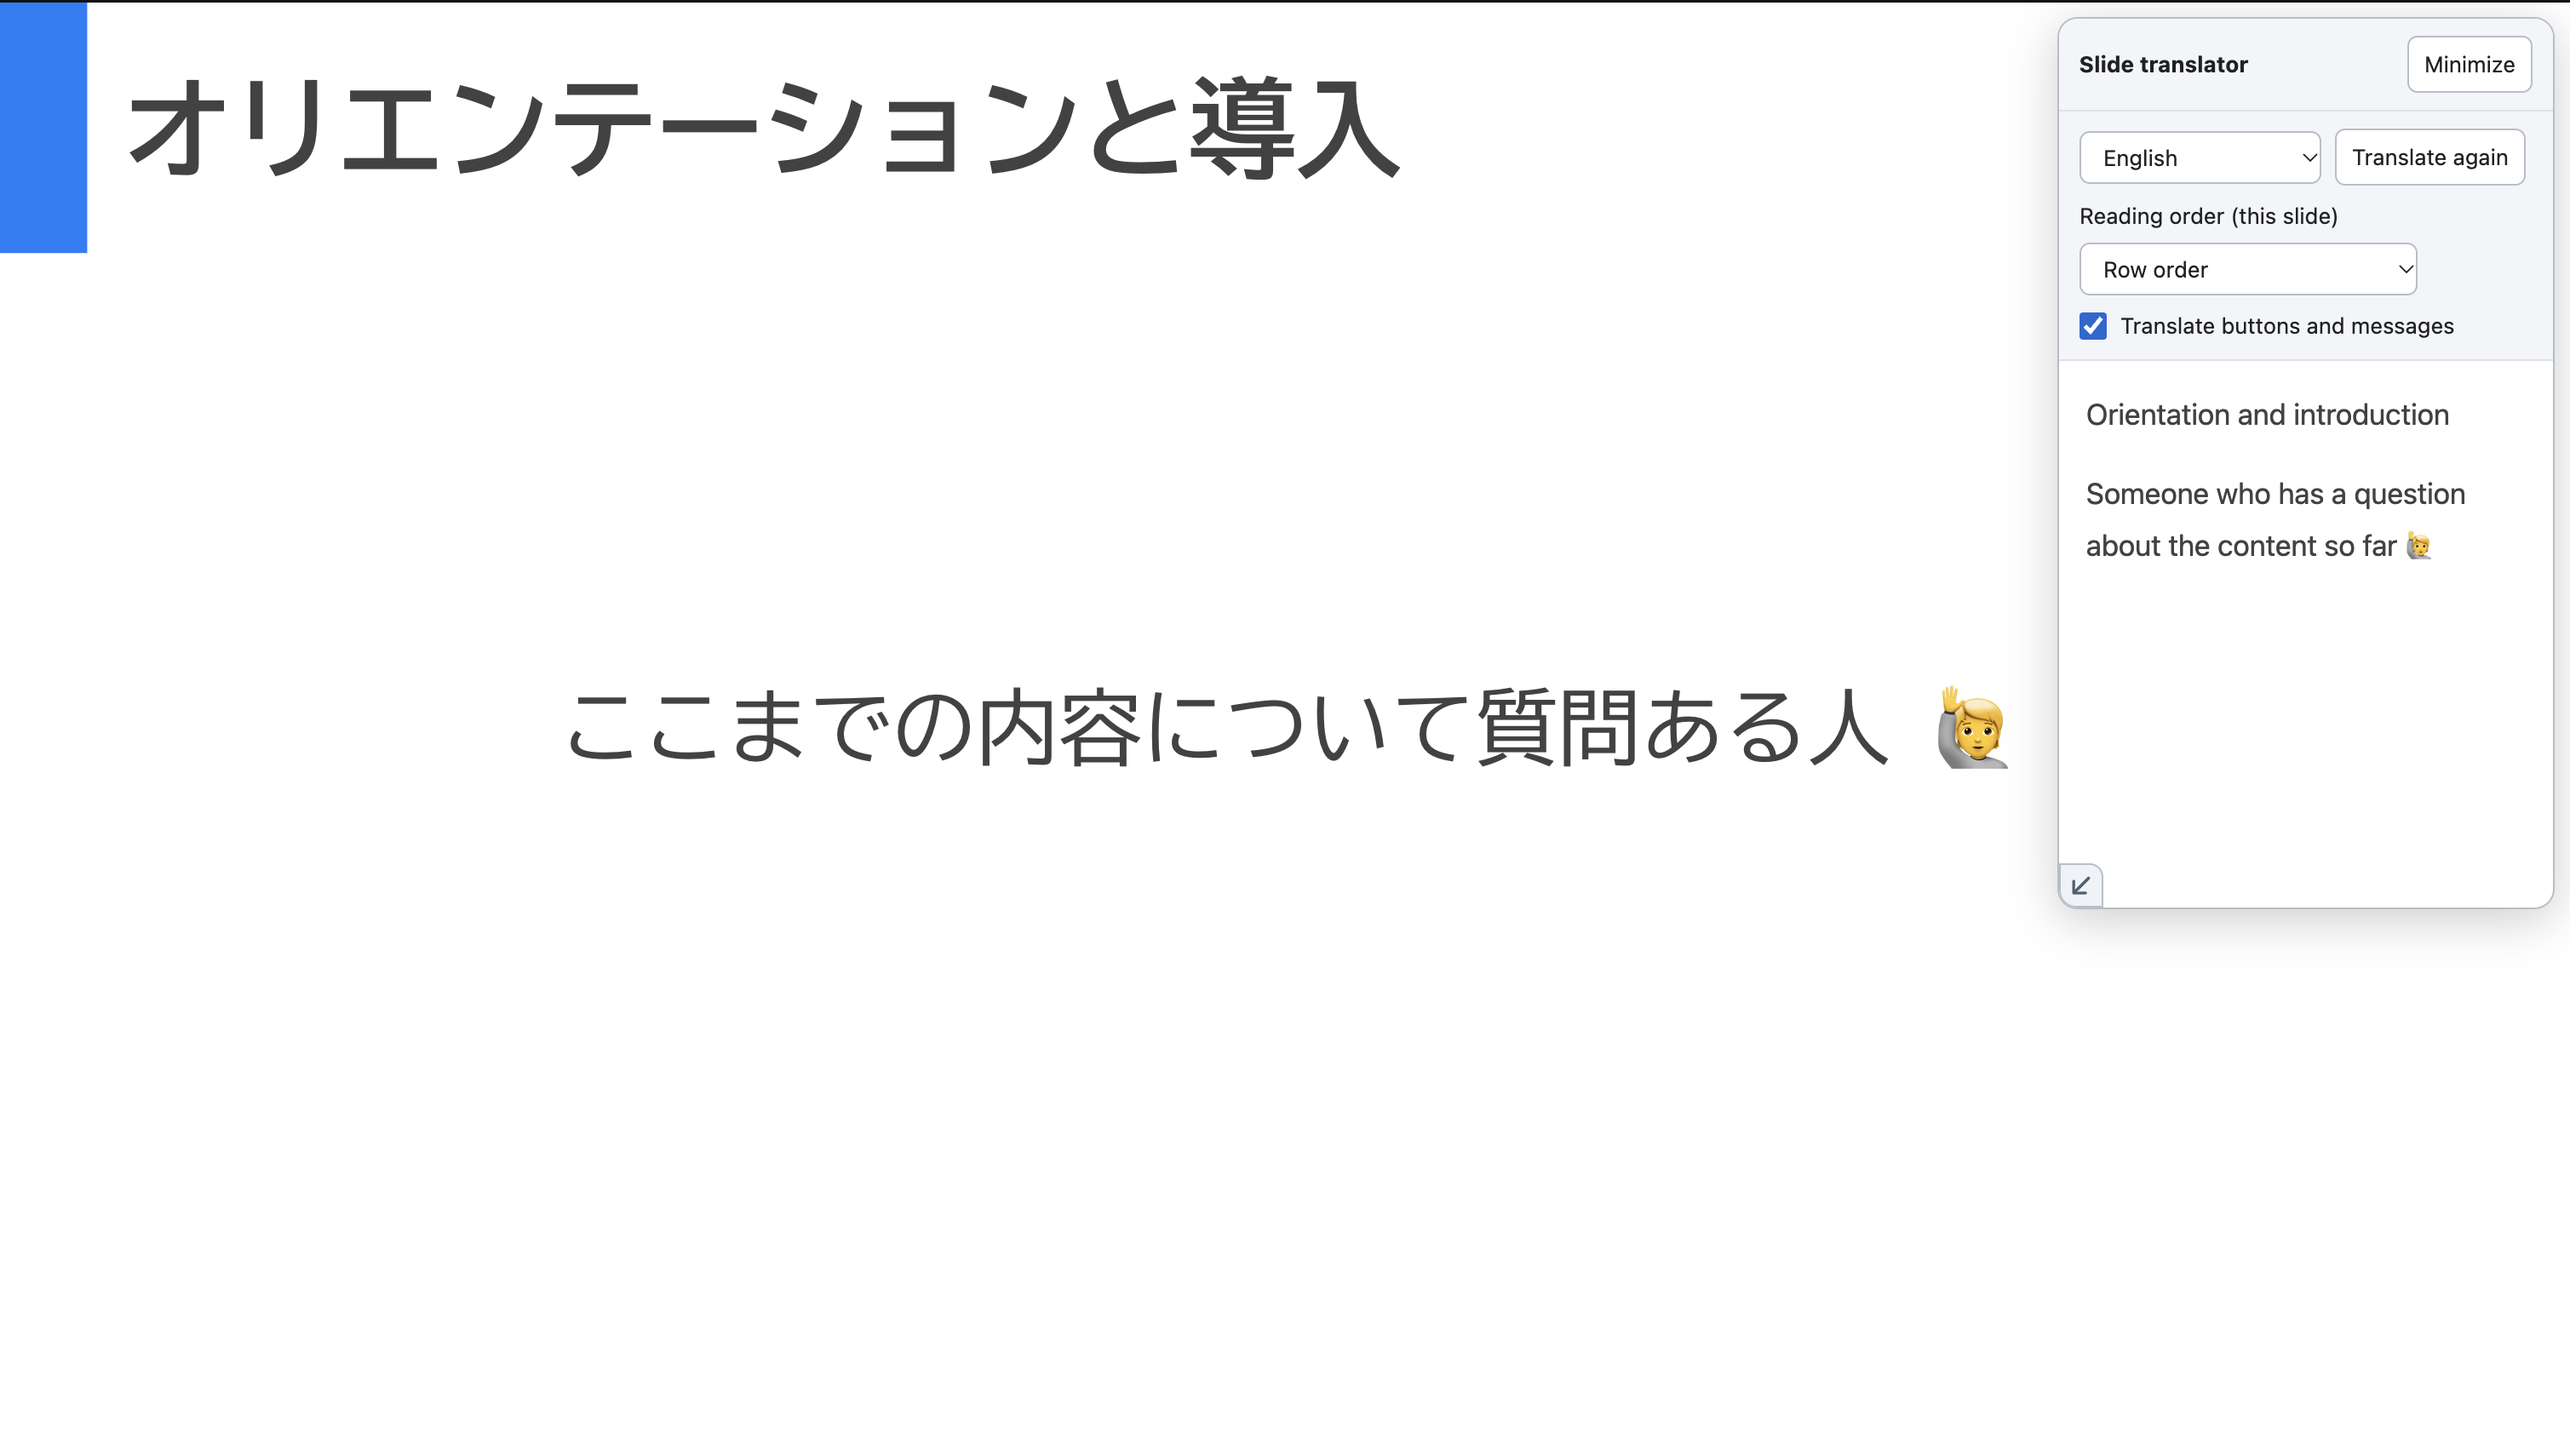
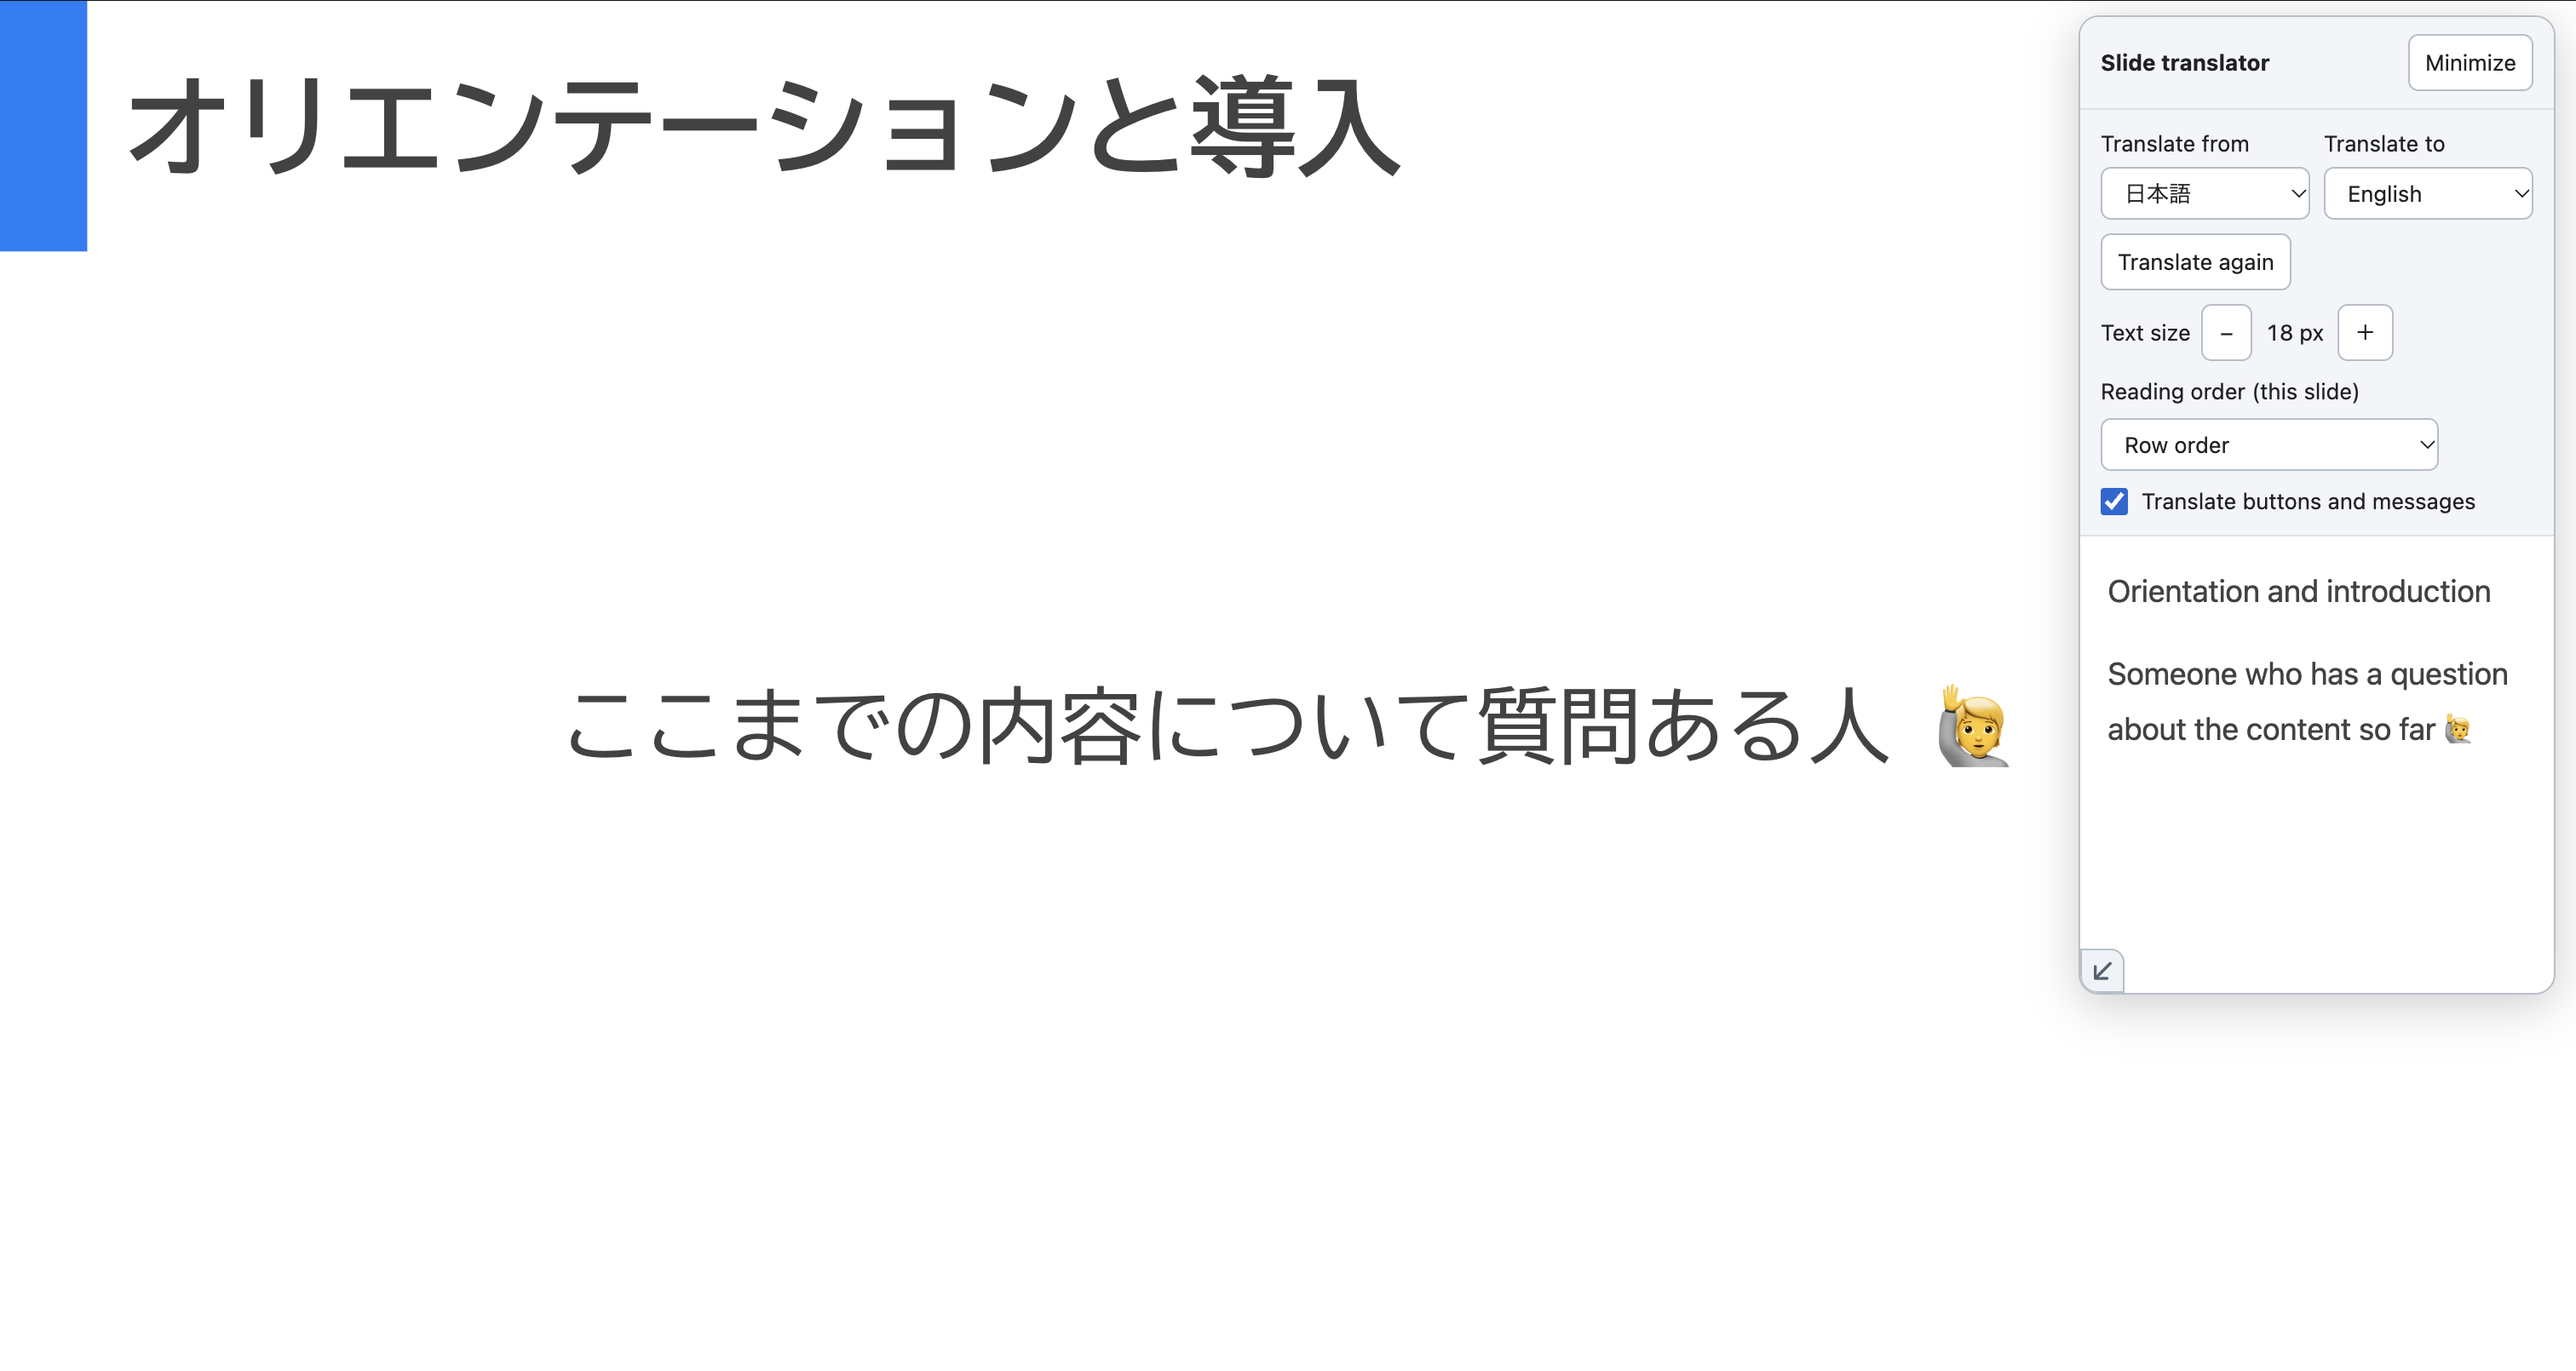
Refresh Canva example and clarify teacher-led use and optional student setup

diff --git a/index.html b/index.html
@@ -4411,8 +4411,8 @@ SOFTWARE.
 <h3>翻訳パネルの表示例</h3>
 <p class="small">日本語の資料を英語に翻訳している例です。資料の右側に訳文が表示されていれば、翻訳できています。</p>
 <figure class="panel-example" id="canva-panel-example">
-<figcaption><strong>Canva資料の表示例</strong><p class="small">画像は以前の版の表示例です。現在の版では「翻訳元」と「文字サイズ」も選べます。</p></figcaption>
-<a class="panel-example-image" href="guide-assets/canva-translation-panel-example.png?v=05b4cd36d76d" target="_blank" rel="noopener noreferrer" aria-label="Canva資料の翻訳パネルの表示例を大きく見る（新しいタブ）"><img src="guide-assets/canva-translation-panel-example.png?v=05b4cd36d76d" width="3018" height="1702" loading="lazy" alt="左側に日本語のCanvaスライド、右側のSlide translatorパネルに英語の訳文が表示されている例"></a>
+<figcaption><strong>Canva資料の表示例</strong></figcaption>
+<a class="panel-example-image" href="guide-assets/canva-translation-panel-example.png?v=f00d039c053b" target="_blank" rel="noopener noreferrer" aria-label="Canva資料の翻訳パネルの表示例を大きく見る（新しいタブ）"><img src="guide-assets/canva-translation-panel-example.png?v=f00d039c053b" width="3024" height="1610" loading="lazy" alt="左側に日本語のCanvaスライド、右側のSlide translatorパネルに英語の訳文が表示されている例"></a>
 </figure>
 <figure class="panel-example" id="pdf-panel-example">
 <figcaption><strong>PDF資料の表示例</strong></figcaption>

diff --git a/README.md b/README.md
@@ -4,7 +4,11 @@
 
 **[導入ガイドを開く — 使い方とコードのコピーはこちら](https://xhan21.github.io/class-material-translator/)**
 
-学生への案内には、上の公開ページのリンクを共有してください。Canva版・PDF版に共通する導入手順・使い方と、それぞれのコードのコピーボタンがあります。
+授業では、まず担当教員がこのツールで日本語の資料を英語に翻訳し、原文と訳文を教室前方の画面に表示する使い方を基本としています。
+
+母国語で読みたい学生や、前方の英訳が見えにくい学生には、上の導入ガイドを案内してください。必要な学生が自分のパソコンにツールを導入し、読みたい言語や文字サイズで訳文を確認できます。
+
+導入ガイドは学生向けに、Canva版・PDF版に共通する導入手順・使い方と、それぞれのコードをまとめています。教員ご自身がツールを導入する際も、同じ手順を利用できます。
 
 ## Tampermonkeyに貼り付けるコード
 
@@ -31,7 +35,7 @@ Canva版・PDF版ともに、パネルの「翻訳元」で資料の言語、「
 
 資料の翻訳には、[Google Chromeの内蔵翻訳機能（Translator API）](https://developer.chrome.com/docs/ai/translator-api)を利用しています。
 
-訳文は授業資料を理解するための補助であり、正確性を保証するものではありません。機械翻訳による誤訳や、文字の読み取り・読み順による抜けや誤りが生じる場合があります。専門用語や課題の指示など、重要な内容は原文と照らし合わせ、不明な場合は担当教員に確認してください。
+訳文は授業資料を理解するための補助であり、正確性を保証するものではありません。機械翻訳による誤訳や、文字の読み取り・読み順による抜けや誤りが生じる場合があります。授業で利用する際は、専門用語や課題の指示などの重要な内容を原文と照らし合わせ、必要に応じて補足してください。学生にも、訳文だけで判断せず、不明な点は担当教員に確認するよう案内してください。
 
 公開ページと2本の配布コード、簡単な案内、公開に必要な設定ファイルを置いています。
 
